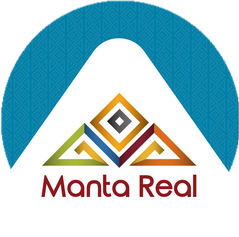
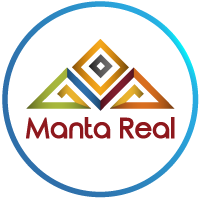
Pinta torres colaborativamente

diff --git a/src/main/resources/static/js/app.js b/src/main/resources/static/js/app.js
@@ -38,13 +38,7 @@ var app = (function () {
         }
 
     }
-    var _fun5 = function (list) {
-        for (var i = 0; i < list.length; i++) {
-            console.info(list[i]);
-            inmuebles[i] = {"seccion": list[i].seccion, "numero": list[i].numero, "tipo": list[i].tipo, "precio": list[i].precio};
-        }
 
-    };
 
     return {
         inicio: function () {
@@ -64,7 +58,7 @@ var app = (function () {
 
                     $.get("proyecto.html", function (data) {
                         $("#contenedor").html(data);
-                        document.getElementById("header").innerHTML = "<div class=\"col-md-4 encabezado\"><h1 id=\"nameuser\">Usuario: </><h1 id=\"titulo\">Proyecto </h1><img id=\"logo\"/><br></br><select id=\"proyectos\"class =\"select\" onchange=\"app.selectProyect()\"></select><br></br><select id=\"torres\" class =\"select\" onchange=\"app.loadTorre()\"></select></div><div id=\"cotizador\" class=\"col-md-4\"></div> ";
+                        document.getElementById("header").innerHTML = "<div class=\"col-md-4 encabezado\"><h1 id=\"nameuser\">Usuario: </><h1 id=\"titulo\">Proyecto </h1><img id=\"logo\"/><br></br><select id=\"proyectos\"class =\"select\" onchange=\"app.selectProyect()\"></select><br></br><select id=\"torres\" class =\"select\" onchange=\"app.selectTorre()\"></select></div><div id=\"cotizador\" class=\"col-md-4\"></div> ";
                         document.getElementById("container").innerHTML = "<div class=\"col-md-2\" id=\"tabla\"></div>";
                         document.getElementById("nameuser").innerHTML = username.nombre;
                         apiproyecto.loadProyectos();
@@ -81,7 +75,8 @@ var app = (function () {
                         document.getElementById("tabla").innerHTML = "<table class=\"table table-bordered\"><tbody></tbody></table>";
                         controlador.getAllSesiones(_fun4);
                         setTimeout(function () {
-                            for (var i = 0; i < sesiones.length; i++) {
+                            https://www.google.com.co/maps/dir/Funza,+Cundinamarca/Carmen+de+Apicalá,+Tolima/@4.4339073,-74.7882468,98199m/data=!3m2!1e3!4b1!4m14!4m13!1m5!1m1!1s0x8e3f82a935a650d5:0x7bcbcfe2307bb094!2m2!1d-74.21225!2d4.717029!1m5!1m1!1s0x8e3edbc8a210cbbf:0xabadaa7126032c68!2m2!1d-74.715312!2d4.152951!3e0lo
+                                    for (var i = 0; i < sesiones.length; i++) {
                                 $("table tbody").append("<tr>");
                                 $("table tbody").append("<td><button onclick=\"app.subscribe('" + sesiones[i].id + "')\">Suscribirse</button></td><td><h4>" + sesiones[i].cliente.nombre + "</h4></td><td><h4> Estado: " + sesiones[i].estado + "</h4></td>");
                                 $("table tbody").append("</tr>");
@@ -109,30 +104,34 @@ var app = (function () {
             }, 200);
         }, subscribe: function (sesion) {
             controlador.getSesionById(sesion, _fun2);
-            document.getElementById("header").innerHTML = "<div class=\"col-md-4 encabezado\"><h1 id=\"nameuser\">Usuario: </><h1 id=\"titulo\">Proyecto </h1><img id=\"logo\"/><br></br><select id=\"proyectos\"class =\"select\" onchange=\"app.selectProyect()\"></select><br></br><select id=\"torres\" class =\"select\" onchange=\"app.loadTorre()\"></select></div><div id=\"cotizador\" class=\"col-md-4\"></div> ";
+            document.getElementById("header").innerHTML = "<div class=\"col-md-4 encabezado\"><h1 id=\"nameuser\">Usuario: </><h1 id=\"titulo\">Proyecto </h1><img id=\"logo\"/><br></br><select id=\"proyectos\"class =\"select\" onchange=\"app.selectProyect()\"></select><br></br><select id=\"torres\" class =\"select\" onchange=\"app.selectTorre()\"></select></div><div id=\"cotizador\" class=\"col-md-4\"></div> ";
             document.getElementById("container").innerHTML = "<div class=\"col-md-2\" id=\"tabla\"></div>";
             apiproyecto.loadProyectos();
             setTimeout(function () {
                 controlador.wsconnect(sesion);
             }, 250);
-        }, loadTorre: function () {
-            var markup = ("<table class=\"table table-bordered\"><tbody></tbody></table>");
-            document.getElementById("tabla").innerHTML = markup;
+
+
+        },
+        selectTorre: function () {
+          
             torreSeleccionada = document.getElementById("torres").value;
-            controlador.getInmuebleByTorre(proyectoSeleccionado.nombre, document.getElementById("torres").value, _fun5);
+
             setTimeout(function () {
-                var cont = 0;
-                for (var i = 0; i < proyectoSeleccionado.pisos; i++) {
-                    $("table tbody").append("<tr>");
-                    for (var j = 0; j < 4; j++) {
-                        console.info(inmuebles[j + cont].numero);
-                        $("table tbody").append("<td><button onclick=\"app.loadinmueble('" + inmuebles[j + cont].numero + "')\">" + inmuebles[j + cont].numero + "</button></td>");
-                    }
-                    cont += 4;
-                    $("table tbody").append("</tr>");
-                }
-            }, 250);
-        },loadinmueble: function (numero) {
+
+                var sesion = {"id": sesionActual.id, "cliente": sesionActual.cliente, "asesor": sesionActual.asesor, "cotizaciones": sesionActual.cotizaciones, "proyecto": proyectoSeleccionado, "inmuebleSeleccionado": sesionActual.inmuebleSeleccionado, "torreSeleccionada": torreSeleccionada};
+                $.ajax({
+                    url: "/sesiones",
+                    type: "PUT",
+                    data: JSON.stringify(sesion),
+                    dataType: "json",
+                    contentType: "application/json; charset=utf-8"
+                });
+
+            }, 200);
+
+        },
+        loadinmueble: function (numero) {
             apartamentoSel = numero;
             document.getElementById("cotizador").innerHTML = ("<div class=\"col-md-5\"><h4>Apartamento:" + numero + "</h4><input type=\"text\"></input></div>");
         }

diff --git a/src/main/resources/static/js/controlador.js b/src/main/resources/static/js/controlador.js
@@ -7,6 +7,15 @@
 
 controlador = (function () {
     var stompClient = null;
+    var inmuebles = [];
+
+    var _fun5 = function (list) {
+        for (var i = 0; i < list.length; i++) {
+            console.info(list[i]);
+            inmuebles[i] = {"seccion": list[i].seccion, "numero": list[i].numero, "tipo": list[i].tipo, "precio": list[i].precio};
+        }
+
+    };
 
     return {
         getAllProyectos: function (callback) {
@@ -111,6 +120,24 @@ controlador = (function () {
                     for (var i = 1; i <= evento.proyecto.torres; i++) {
                         document.getElementById("torres").innerHTML += "<option value='" + i + "'>Torre " + i + "</option>";
                     }
+                    var markup = ("<table class=\"table table-bordered\"><tbody></tbody></table>");
+                    document.getElementById("tabla").innerHTML = markup;
+                    controlador.getInmuebleByTorre(evento.proyecto.nombre, evento.torreSeleccionada, _fun5);
+                    setTimeout(function () {
+                        var cont = 0;
+                        console.info(evento.proyecto.pisos + " ISABEL TE AMO");
+                        for (var i = 0; i < evento.proyecto.pisos; i++) {
+                            $("table tbody").append("<tr>");
+                            for (var j = 0; j < 4; j++) {
+                                console.info(inmuebles[j + cont].numero + " ACA ESTAAAAAA");
+                                console.info(i);
+                                console.info(j);
+                                $("table tbody").append("<td><button onclick=\"app.loadinmueble('" + inmuebles[j + cont].numero + "')\">" + inmuebles[j + cont].numero + "</button></td>");
+                            }
+                            cont += 4;
+                            $("table tbody").append("</tr>");
+                        }
+                    }, 250);
                 });
 
             });

diff --git a/src/main/java/edu/eci/arsw/inverboyapp/model/Sesion.java b/src/main/java/edu/eci/arsw/inverboyapp/model/Sesion.java
@@ -20,7 +20,9 @@ public class Sesion implements Serializable{
     public ArrayList<Cotizacion> cotizaciones;
     public String estado;
     public Proyecto proyecto;
-
+    public Inmueble inmuebleSeleccionado;
+    public int torreSeleccionada;
+    
     public Sesion() {
     }
 
@@ -36,6 +38,18 @@ public class Sesion implements Serializable{
         this.estado = estado;
         this.proyecto=proyecto;
     }
+
+    public Sesion(int id, Usuario cliente, Usuario asesor, ArrayList<Cotizacion> cotizaciones, String estado, Proyecto proyecto, Inmueble inmuebleSeleccionado, int torreSeleccionada) {
+        this.id = id;
+        this.cliente = cliente;
+        this.asesor = asesor;
+        this.cotizaciones = cotizaciones;
+        this.estado = estado;
+        this.proyecto = proyecto;
+        this.inmuebleSeleccionado = inmuebleSeleccionado;
+        this.torreSeleccionada = torreSeleccionada;
+    }
+        
 
     public int getId() {
         return id;
@@ -83,6 +97,22 @@ public class Sesion implements Serializable{
 
     public void setProyecto(Proyecto proyecto) {
         this.proyecto = proyecto;
+    }
+
+    public Inmueble getInmuebleSeleccionado() {
+        return inmuebleSeleccionado;
+    }
+
+    public void setInmuebleSeleccionado(Inmueble inmuebleSeleccionado) {
+        this.inmuebleSeleccionado = inmuebleSeleccionado;
+    }
+
+    public int getTorreSeleccionada() {
+        return torreSeleccionada;
+    }
+
+    public void setTorreSeleccionada(int torreSeleccionada) {
+        this.torreSeleccionada = torreSeleccionada;
     }
     
     

diff --git a/src/main/java/edu/eci/arsw/inverboyapp/controllers/ProyectosController.java b/src/main/java/edu/eci/arsw/inverboyapp/controllers/ProyectosController.java
@@ -5,8 +5,10 @@
  */
 package edu.eci.arsw.inverboyapp.controllers;
 
+import edu.eci.arsw.inverboyapp.model.Inmueble;
 import edu.eci.arsw.inverboyapp.services.InverboyServicesException;
 import edu.eci.arsw.inverboyapp.services.Servicios;
+import java.util.ArrayList;
 import org.springframework.beans.factory.annotation.Autowired;
 import org.springframework.http.HttpStatus;
 import org.springframework.http.ResponseEntity;
@@ -59,8 +61,10 @@ public class ProyectosController {
     }
 
     @RequestMapping(path = "/{proyecto}/inmuebles/{torre}", method = RequestMethod.GET)
-    public ResponseEntity<?> getInmueblesByProyecto(@PathVariable String proyecto, @PathVariable int torre) {
+    public ResponseEntity<?> getInmueblesByTorre(@PathVariable String proyecto, @PathVariable int torre) {
         try {
+            
+            
             return new ResponseEntity<>(services.getInmueblesByTorre(proyecto, torre), HttpStatus.ACCEPTED);
         } catch (InverboyServicesException ex) {
             return new ResponseEntity<>(ex.getLocalizedMessage(), HttpStatus.NOT_FOUND);

diff --git a/src/main/java/edu/eci/arsw/inverboyapp/persistence/stub/RepositorioProyectosStub.java b/src/main/java/edu/eci/arsw/inverboyapp/persistence/stub/RepositorioProyectosStub.java
@@ -117,7 +117,7 @@ public class RepositorioProyectosStub implements RepositorioProyectos {
         proyectosdb = new ConcurrentHashMap<>();
         proyectosdb.put("TierrAlta", new ProyectoApartamentos("TierrAlta", "Carrera 9 este # 38-98", "VIS", "img/ta.png", 10, 2, "img/imp.jpg", inmuebles));
         proyectosdb.put("Monteverde", new ProyectoApartamentos("Monteverde", "Carrera 9 este # 38-98", "VIS", "img/mv.png", 9, 2, "img/imp.jpg", inmuebles));
-        proyectosdb.put("MantaReal", new ProyectoApartamentos("MantaReal", "Carrera 9 este # 38-98", "VIS", "img/mr.png", 9, 2, "img/imp.jpg", inmuebles));
+        proyectosdb.put("MantaReal", new ProyectoApartamentos("MantaReal", "Carrera 9 este # 38-98", "VIS", "img/mr1.png", 9, 2, "img/imp.jpg", inmuebles));
 
     }
 

diff --git a/src/main/java/edu/eci/arsw/inverboyapp/persistence/stub/RepositorioSesionesStub.java b/src/main/java/edu/eci/arsw/inverboyapp/persistence/stub/RepositorioSesionesStub.java
@@ -28,7 +28,7 @@ public class RepositorioSesionesStub implements RepositorioSesiones {
 
     static {
         sesionesdb = new ConcurrentHashMap<>();
-        sesionesdb.put(1, new Sesion(new Usuario("Javi", "3124448033", "@.com", "cliente")));
+        sesionesdb.put(1, new Sesion(new Usuario("Isabel Castellanos", "3112681076", "@.com", "cliente")));
     }
 
     @Override
